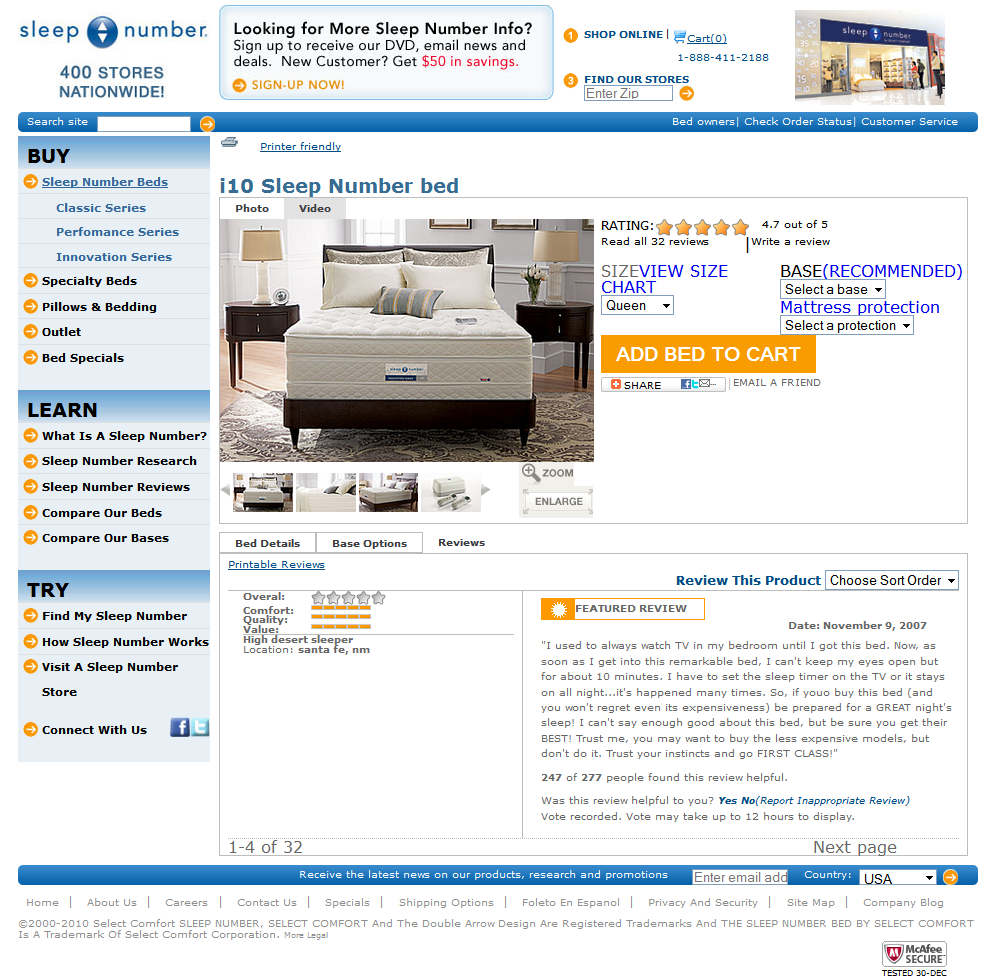
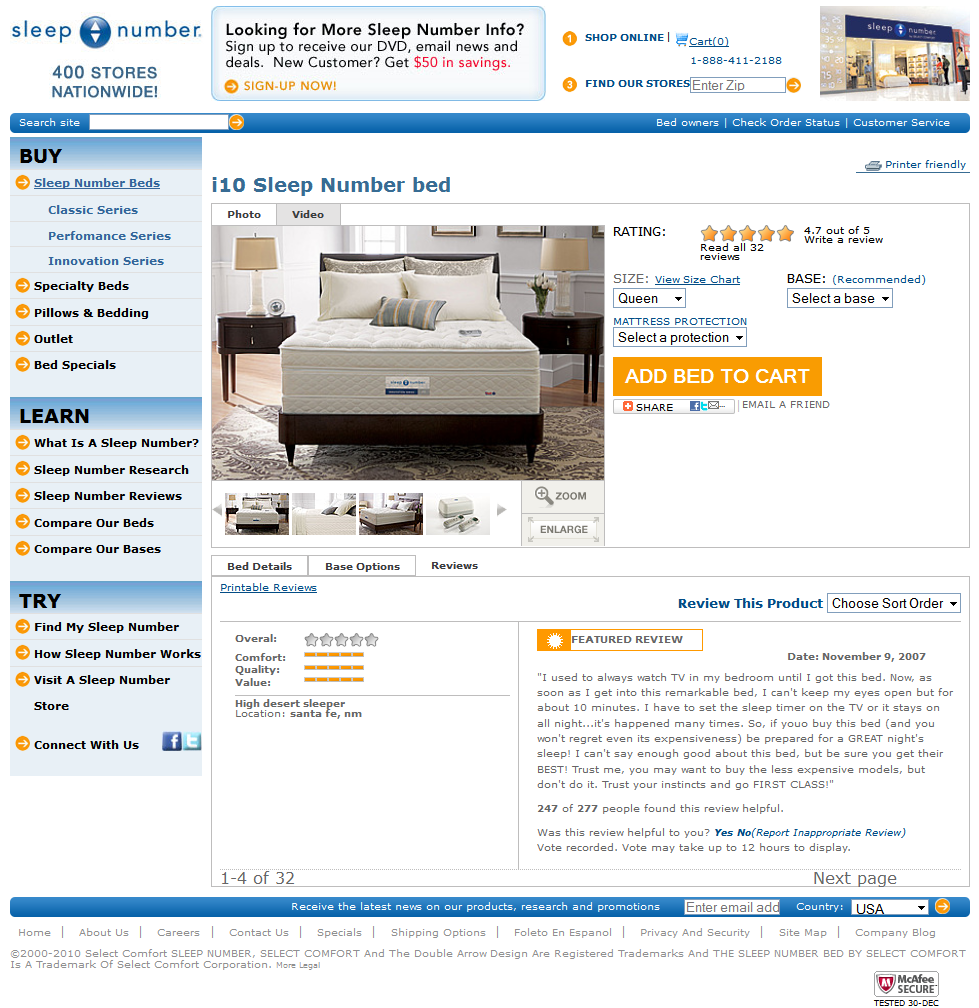
changes again

Changed region(s): [[0.0, 0.0, 1.0, 0.7677], [0.0, 0.5834, 1.0, 1.0]]

diff --git a/index.html b/index.html
@@ -10,28 +10,29 @@
 <div id="main_container">
     <div class="wrapper row">
         <div id="header" class="row ">
-            <a href="google.com" class="column w20 mr1" title="Go to main page"><img class="column w100" src="img/logo.png" alt="sleep number"></a>
-            <div class="column w35 banner mt-0-5"></div>
-            <div class="column w28 mt1-5 padBoth">
-                <div class="row sprites mt2">
-                    <div class="mr2-5 column sprite-one_icon"></div><p class="column upper_case color_blue likeH6">Shop online</p><span class="fs0-6em column ml1 mr1">|</span><div class="column sprite-basket_icon"></div><a class="color_blue cart fs0-6em" href="google.com">Cart(0)</a>
+            <a href="google.com" class="column w20 mr1" title="Go to main page"><img class="column" src="img/logo.png" alt="sleep number"></a>
+            <div class="column w35 banner mt-0-4"></div>
+            <div class="column w28 mt1-5 padrl1-5">
+                <div class="row sprites mt3">
+                    <div class="column sprite-one_icon"></div>
+                    <p class="column upper_case color_blue likeH6 pl3-5">Shop online</p><span class="fs0-6em column ml1 mr1">|</span><div class="column sprite-basket_icon"></div><a class="color_blue cart fs0-6em" href="google.com">Cart(0)</a>
                 </div>
                 <div class="row mt3">
                     <div class="column fr color_blue fs0-6em pr8">1-888-411-2188</div>
                 </div>
                 <div class="row sprites mt5">
-                    <div class="mr2-5 column sprite-three_icon"></div><p class="mr2-5 column upper_case color_blue likeH6">find our stores</p><input class="mr2-5 column h1-2 w40" type="text" placeholder="Enter Zip"><div class="column sprite-icon_right"></div>
+                    <div class="column sprite-three_icon"></div><p class=" column upper_case color_blue likeH6 pl3-5">find our stores</p><input class="column h1-2 w40" type="text" placeholder="Enter Zip"><div class="column sprite-icon_right"></div>
                 </div>
             </div>
-            <div class="column w16 shop_picture"></div>
+            <div class="column w16 shop_picture fr mt-0-4"></div>
         </div>
-        <div class="row blue_stripe sprites mt0-75">
+        <div class="row blue_stripe sprites mt1-25">
             <p class="column color_white mr1">Search site</p>
-            <input type="text" class="column h1-2 w10 mr1">
-            <div class="column sprite-icon_right"></div>
+            <input type="text" class="column h1-2 w15 mt-0-25">
+            <div class="column sprite-icon_right mt-0-25"></div>
             <p class="column fr">
-                <a href="google.com" class="color_white pl15">Bed owners</a><span class="color_white">|</span>
-                <a href="google.com" class="color_white pl15">Check Order Status</a><span class="color_white">|</span>
+                <a href="google.com" class="color_white pl15">Bed owners</a><span class="color_white"> |</span>
+                <a href="google.com" class="color_white pl15">Check Order Status</a><span class="color_white"> |</span>
                 <a href="google.com" class="color_white pl15">Customer Service</a>
             </p>
         </div>
@@ -72,35 +73,35 @@
                 </div>
             <!-- </div> -->
             <div class="column w80 pl1">
-                <div class="row sprites">
-                    <a class="dec w20 fr color_blue fs0-6em pl2-5" href="google.com"><span class="column dbl forSprite sprite-icon_printer"></span>Printer friendly</a>
+                <div class="row sprites mt3">
+                    <a class="column bordBotBlue w15 fr dbl color_blue fs0-6em pl1" href="google.com"><span class="column forSprite sprite-icon_printer"></span>Printer friendly</a>
                 </div>
-                <h3 class="row mt3">i10 Sleep Number bed</h3>
+                <h3 class="row">i10 Sleep Number bed</h3>
                 <div class="row tabs mt1">
                     <ul class="row">
-                        <li class="active column"><a href="google.com" class="fntBold fs0-6em color_dark_grey">Photo</a></li>
-                        <li class="column"><a href="google.com" class="fntBold fs0-6em color_dark_grey">Video</a></li>
+                        <li class="active column bordRight"><a href="google.com" class="fntBold fs0-6em color_dark_grey">Photo</a></li>
+                        <li class="column bordRight"><a href="google.com" class="fntBold fs0-6em color_dark_grey">Video</a></li>
                     </ul>
-                    <div class="column w50">
+                    <div class="column w52">
                         <div class="row">
-                            <img class="column w100" src="img/big_bed.png" alt="Big bad">
+                            <img class="bordBottom bordTop bordRight column w100" src="img/big_bed.png" alt="Big bad">
                         </div>
                         <div class="row">
-                            <div class="ptb3 column w80 sprites">
+                            <div class="ptb3 column w75 sprites">
                                 <div class="column sprite-left_slider_icon mt3"></div>
-                                <img class="column w20 ml1" alt="bed1" src="img/bed_slider_one.png">
-                                <img class="column w20 ml1" alt="bed2" src="img/bed_slider_two.png">
-                                <img class="column w20 ml1" alt="bed3" src="img/bed_slider_three.png">
-                                <img class="column w20 ml1" alt="bed4" src="img/bed_slider_four.png">
-                                <div class="column sprite-right_slider_icon_ mt3"></div>
+                                <img class="column  ml1" alt="bed1" src="img/bed_slider_one.png">
+                                <img class="column  ml1" alt="bed2" src="img/bed_slider_two.png">
+                                <img class="column  ml1" alt="bed3" src="img/bed_slider_three.png">
+                                <img class="column  ml1" alt="bed4" src="img/bed_slider_four.png">
+                                <div class="column sprite-right_slider_icon_ mt3 fr"></div>
                             </div>
-                            <div class="column w20 sprites">
-                                <div class="column w100 sprite-ico_zoom"></div>
-                                <div class="column w100 sprite-enlarge_icon"></div>
+                            <div class="column w21-4 fr sprites">
+                                <div class="bordLeft w100 bordRight bordBottom column  sprite-ico_zoom"></div>
+                                <div class="bordLeft w100 bordRight column  sprite-enlarge_icon"></div>
                             </div>
                         </div>
                     </div>
-                    <div class="column w50 padrl1">
+                    <div class="column w48 padrl1">
                         <div class="row">
                             <div class="row">
                                 <div class="column w25"><p class="upper_case column w15 fs0-8em">rating:</p></div>
@@ -180,16 +181,16 @@
                     <div style="height:20px;width:20px;background:#fed;margin-left:5px; float:left"></div>
                     <div style="height:20px;width:20px;background:#fed;margin-left:5px; float:left"></div>
                 </div> -->
-                <div class="row  mt1">
+                <div class="row mt1">
                     <ul class="row">
                         <li class="tabs column"><a href="google.com" class="fntBold fs0-6em color_dark_grey capital lh1-9em">Bed Details</a></li>
                         <li class="tabs column"><a href="google.com" class="fntBold fs0-6em color_dark_grey capital lh1-9em">base options</a></li>
                         <li class="tabs column active"><a href="google.com" class="fntBold fs0-6em color_dark_grey capital lh1-9em">reviews</a></li>
                     </ul>
                 </div>
-                <div class="column padrl1 bord ">
+                <div class="column padrl1 bord">
                 <div class="row"><div class="column w20"><a class="color_blue fs0-6em dec capital" href="google.com">printable reviews</a></div></div>
-                <div class="row bordBot">
+                <div class="row bordBot pb1">
                     <div class="column fr color_blue fs0-8em capital fntBold">review this product
                         <select>
                             <option value="" disabled selected="">Choose sort order</option>
@@ -202,8 +203,8 @@
                 </div>
                 <div class="row padrl1 bordBotDot">
                     <div class="column w40 padBoth h100">
-                        <div class="row bordBot">
-                            <div class="row">
+                        <div class="row bordBot ptl3">
+                            <div class="row mt1">
                                 <div class="column w25 color666 fs0-6em fntBold">Overal: </div>
                                 <div class="column w40 sprites">
                                     <div class="column sprite-star_0_per_cent"></div>
@@ -213,7 +214,7 @@
                                     <div class="column sprite-star_0_per_cent"></div>
                                 </div>
                             </div>
-                            <div class="row">
+                            <div class="row mt2">
                                 <div class="column w25 color666 fs0-6em fntBold">Comfort: </div>
                                 <div class="column w40 sprites">
                                     <div class="column sprite-square_icon"></div>
@@ -223,7 +224,7 @@
                                     <div class="column sprite-square_icon"></div>
                                 </div>
                             </div>
-                            <div class="row">
+                            <div class="row mt1">
                                 <div class="column w25 color666 fs0-6em fntBold">Quality: </div>
                                 <div class="column w40 sprites">
                                     <div class="column sprite-square_icon"></div>
@@ -233,7 +234,7 @@
                                     <div class="column sprite-square_icon"></div>
                                 </div>
                             </div>
-                            <div class="row">
+                            <div class="row mt1">
                                 <div class="column w25 color666 fs0-6em fntBold">Value: </div>
                                 <div class="column w40 sprites">
                                     <div class="column sprite-square_icon"></div>
@@ -244,7 +245,7 @@
                                 </div>
                             </div>
                         </div>
-                        <div class="row">
+                        <div class="row mt1">
                             <div class="column w100 color666 fs0-6em fntBold">High desert sleeper</div>
                             <div class="column w100 color666 fs0-6em">Location: <span class="fntBold">santa fe, nm</span></div>
                         </div>
@@ -269,13 +270,13 @@
 
         </div>
             <div class="row blue_stripe mt1 sprites">
-                <div class="column fr sprite-icon_right"></div>
+                <div class="column fr sprite-icon_right mt-0-25"></div>
                 <p class="column color_white fr">Receive the latest news on our products, research and promotions 
-                    <select class="h1-2 column fr mr1">
+                    <select class="h1-2 column fr mr1 mt-0-25">
                         <option>USA</option>
                         <option>UK</option>
                         <option>Germany</option>
-                    </select><span class="column fr mr1">Country: </span><input type="text" class="fr column h1-2 w15 mr2-5" placeholder="Enter email address">
+                    </select><span class="column fr mr1">Country: </span><input type="text" class="fr column h1-2 w15 mr2-5 mt-0-25" placeholder="Enter email address">
                 </p>
             </div>
         </div>

diff --git a/style/style.css b/style/style.css
@@ -128,7 +128,7 @@ li.bord_none{
     content: ".";
     display: block;
     height: 0;
-    margin-bottom: 1.8em;
+    margin-bottom: 1.73em;
     visibility: hidden;
 }
 .wrapper{
@@ -161,8 +161,11 @@ li.bord_none{
 .column.w75{width: 75%;}
 .column.w21{width: 21%;}
 .column.w79{width: 79%;}
-.column.w16{width: 16%;}
+.column.w16{width: 15.6%;}
 .column.w28{width: 28%;}
+.column.w48{width: 48%;}
+.column.w52{width: 52%;}
+.column.w21-4{width: 21.4%;}
 .upper_case{
 	text-transform: uppercase;
 }
@@ -178,11 +181,38 @@ li.bord_none{
 .padBoth{
 	padding: 0 0.5em;
 }
+.padrl1-5{
+	padding: 0 1.5%;
+}
 .bordBot{
 	border-bottom: 1px solid #bebdbd;
 }
+.bordBotBlue{
+	border-bottom: 1px solid #386c93;
+}
 .bordLeft{
-	border-left: 1px solid #bebdbd;
+	border-left: 1px solid #bebdbd !important;
+}
+.bordRight{
+	border-right: 1px solid #bebdbd !important;
+}
+.bordTop{
+	border-top: 1px solid #bebdbd !important;
+}
+.bordBottom{
+	border-bottom: 1px solid #bebdbd !important;
+}
+.bordLeftNon{
+	border-left: none !important;
+}
+.bordRightNon{
+	border-right: none !important;
+}
+.bordTopNon{
+	border-top: none !important;
+}
+.bordBottomNon{
+	border-bottom: none !important;
 }
 .bord{
 	border: 1px solid #bebdbd;
@@ -191,7 +221,7 @@ li.bord_none{
 	border: 1px solid #ff9900;
 }
 .h100{
-	min-height: 100%;
+	height: 100% !important;
 }
 .bordRight{
 	border-right: 1px solid #bebdbd;
@@ -220,6 +250,12 @@ li.bord_none{
 .pl2-5{
 	padding-left: 2.5%;
 }
+.pl3-5{
+	padding-left: 3.5%;
+}
+.pb1{
+	padding-bottom: 1%;
+}
 .pl8{
 	padding-left: 8%;
 }
@@ -231,6 +267,9 @@ li.bord_none{
 }
 .ptl1-2{
 	padding: 1.2% 0 0 20%;
+}
+.ptl3{
+	padding: 3% 0;
 }
 .pl05em{
 	padding: 0 0 0 0.5em;
@@ -259,6 +298,9 @@ li.bord_none{
 .mt1{
 	margin-top: 1%;
 }
+.mt1-25{
+	margin-top: 1.25%;
+}
 .mt1-5{
 	margin-top: 1.5%;
 }
@@ -268,6 +310,9 @@ li.bord_none{
 .mt3{
 	margin-top: 3%;
 }
+.mt4{
+	margin-top: 4%;
+}
 .mt0-75{
 	margin-top: 0.75%;
 }
@@ -276,6 +321,12 @@ li.bord_none{
 }
 .mt-0-5{
 	margin-top: -0.5%;
+}
+.mt-0-4{
+	margin-top: -0.4%;
+}
+.mt-0-25{
+	margin-top: -0.25%;
 }
 .mt7{
 	margin-top: 7%;
@@ -358,11 +409,11 @@ li.active{
 	border-top: 1px solid #e0e0e0;
 	font-size: 0.7em;
 	font-weight: bold;
-	line-height: 2.2em;
+	line-height: 2.28em;
 	text-transform: capitalize;
 }
 .left_menu ul li ul li{
-	line-height: 1.9em;
+	line-height: 1.98em;
 	font-size: inherit;
 	font-weight: bold;
 	text-transform: capitalize;
@@ -401,7 +452,7 @@ li.active{
 .sprite-enlarge_icon{ background-position: 0 -219px !important; width: 78px; height: 32px; } 
 .sprite-facebook_big_icon{ background-position: 0 -301px !important; width: 20px; height: 20px; } 
 .sprite-facebook_icon{ background-position: 0 -371px !important; width: 10px; height: 10px; } 
-.sprite-ico_zoom{ background-position: 0 -431px !important; width: 55px; height: 24px; } 
+.sprite-ico_zoom{ background-position: 0 -428px !important; width: 78px; height: 33px; } 
 .sprite-icon_down{ background-position: 0 -505px !important; width: 15px; height: 16px; } 
 .sprite-icon_printer{ background-position: 0 -571px !important; width: 22px; height: 12px; } 
 .sprite-icon_right{ background-position: 0 -633px !important; width: 15px; height: 16px; } 
